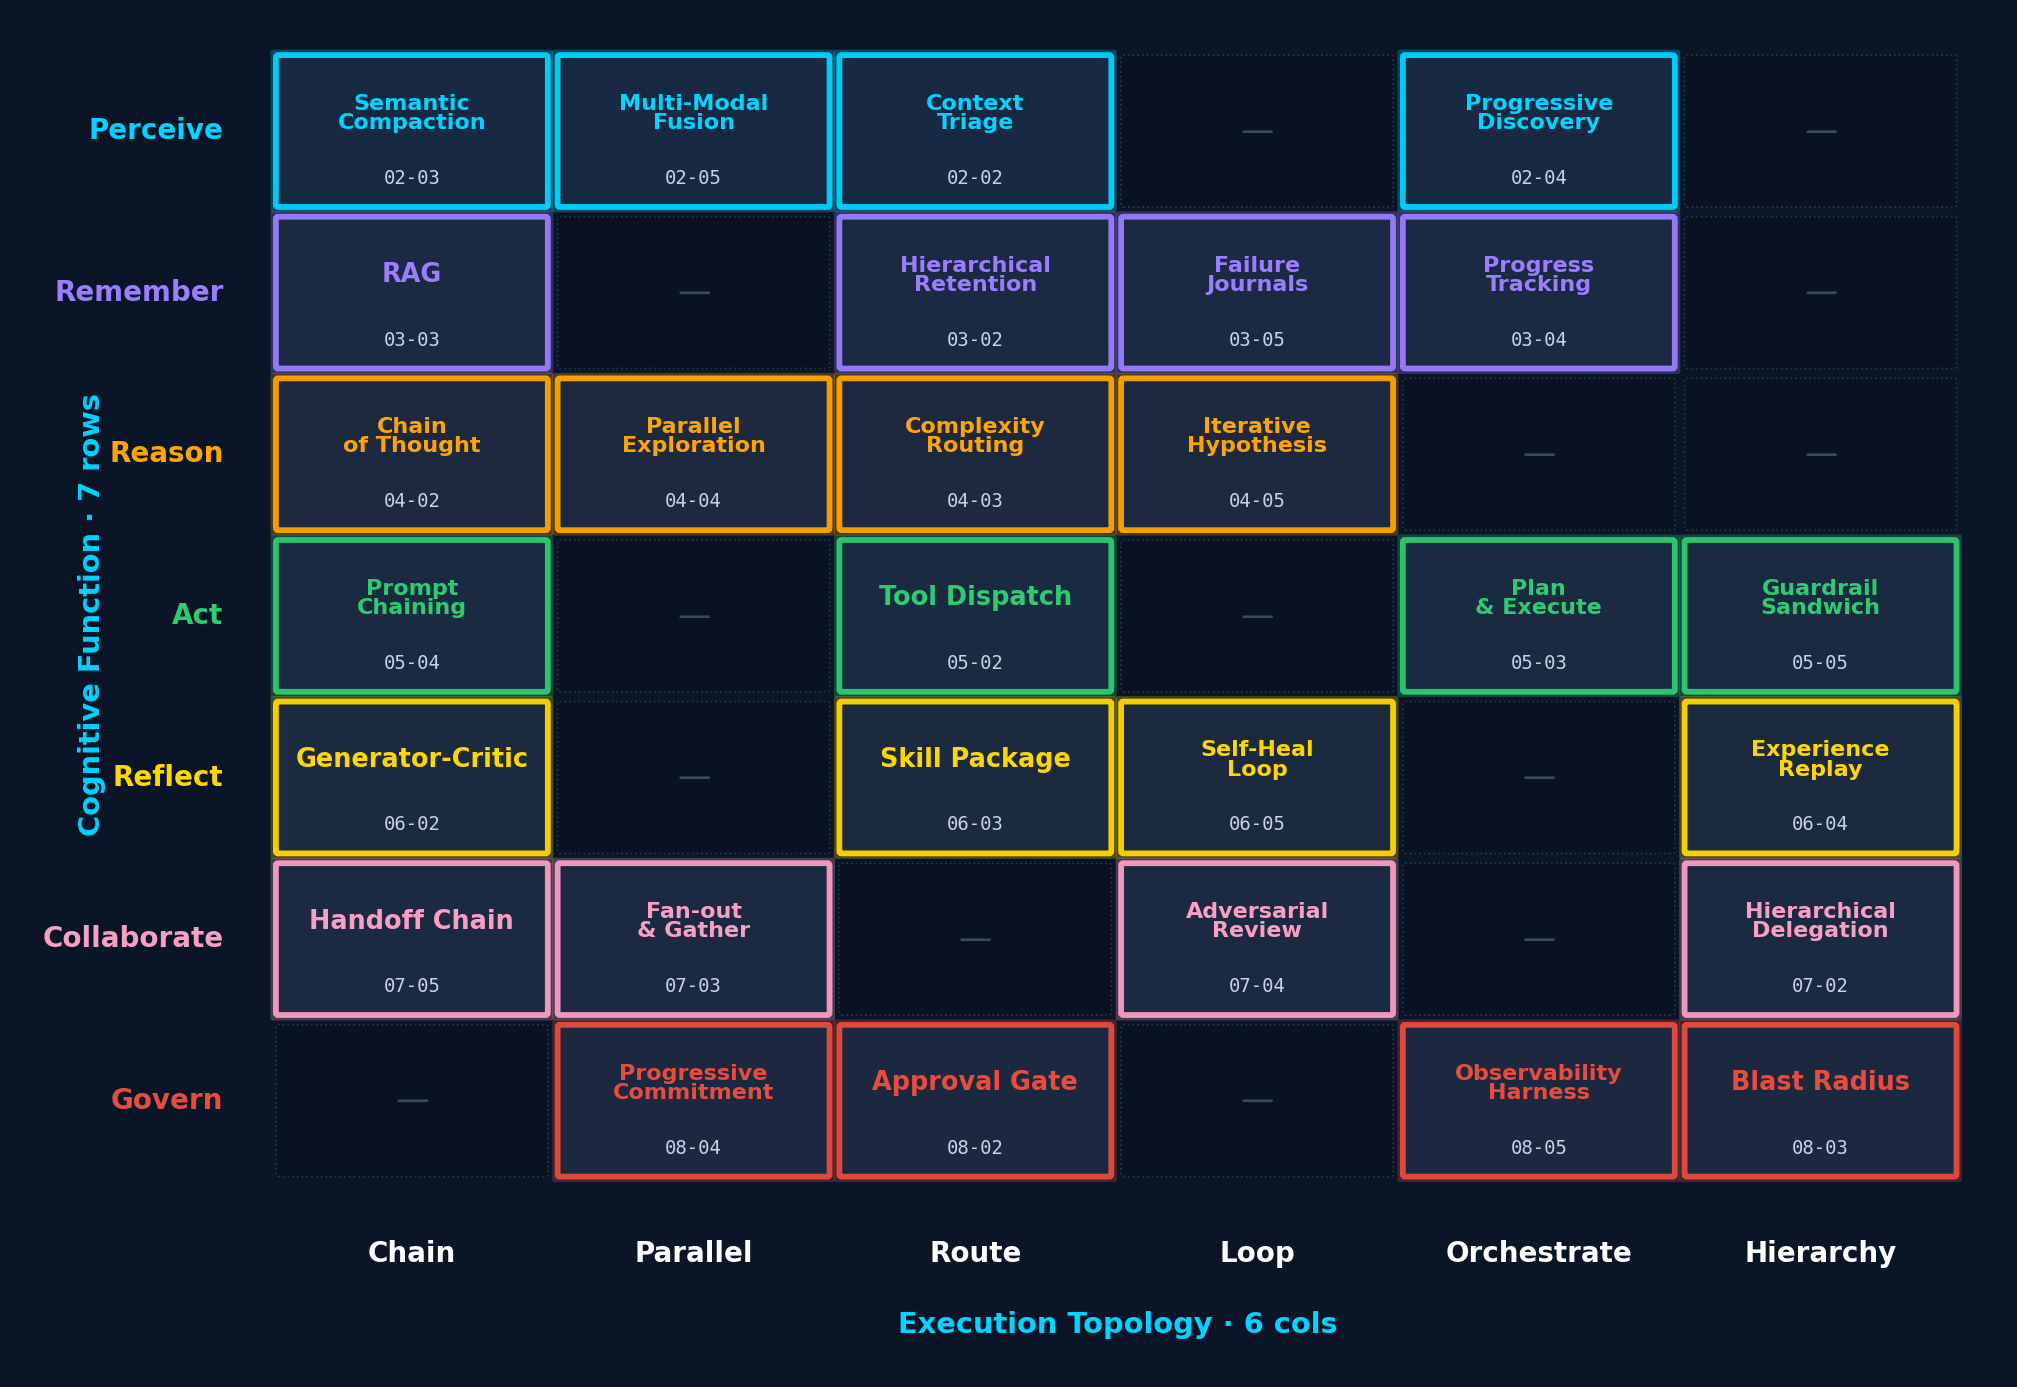
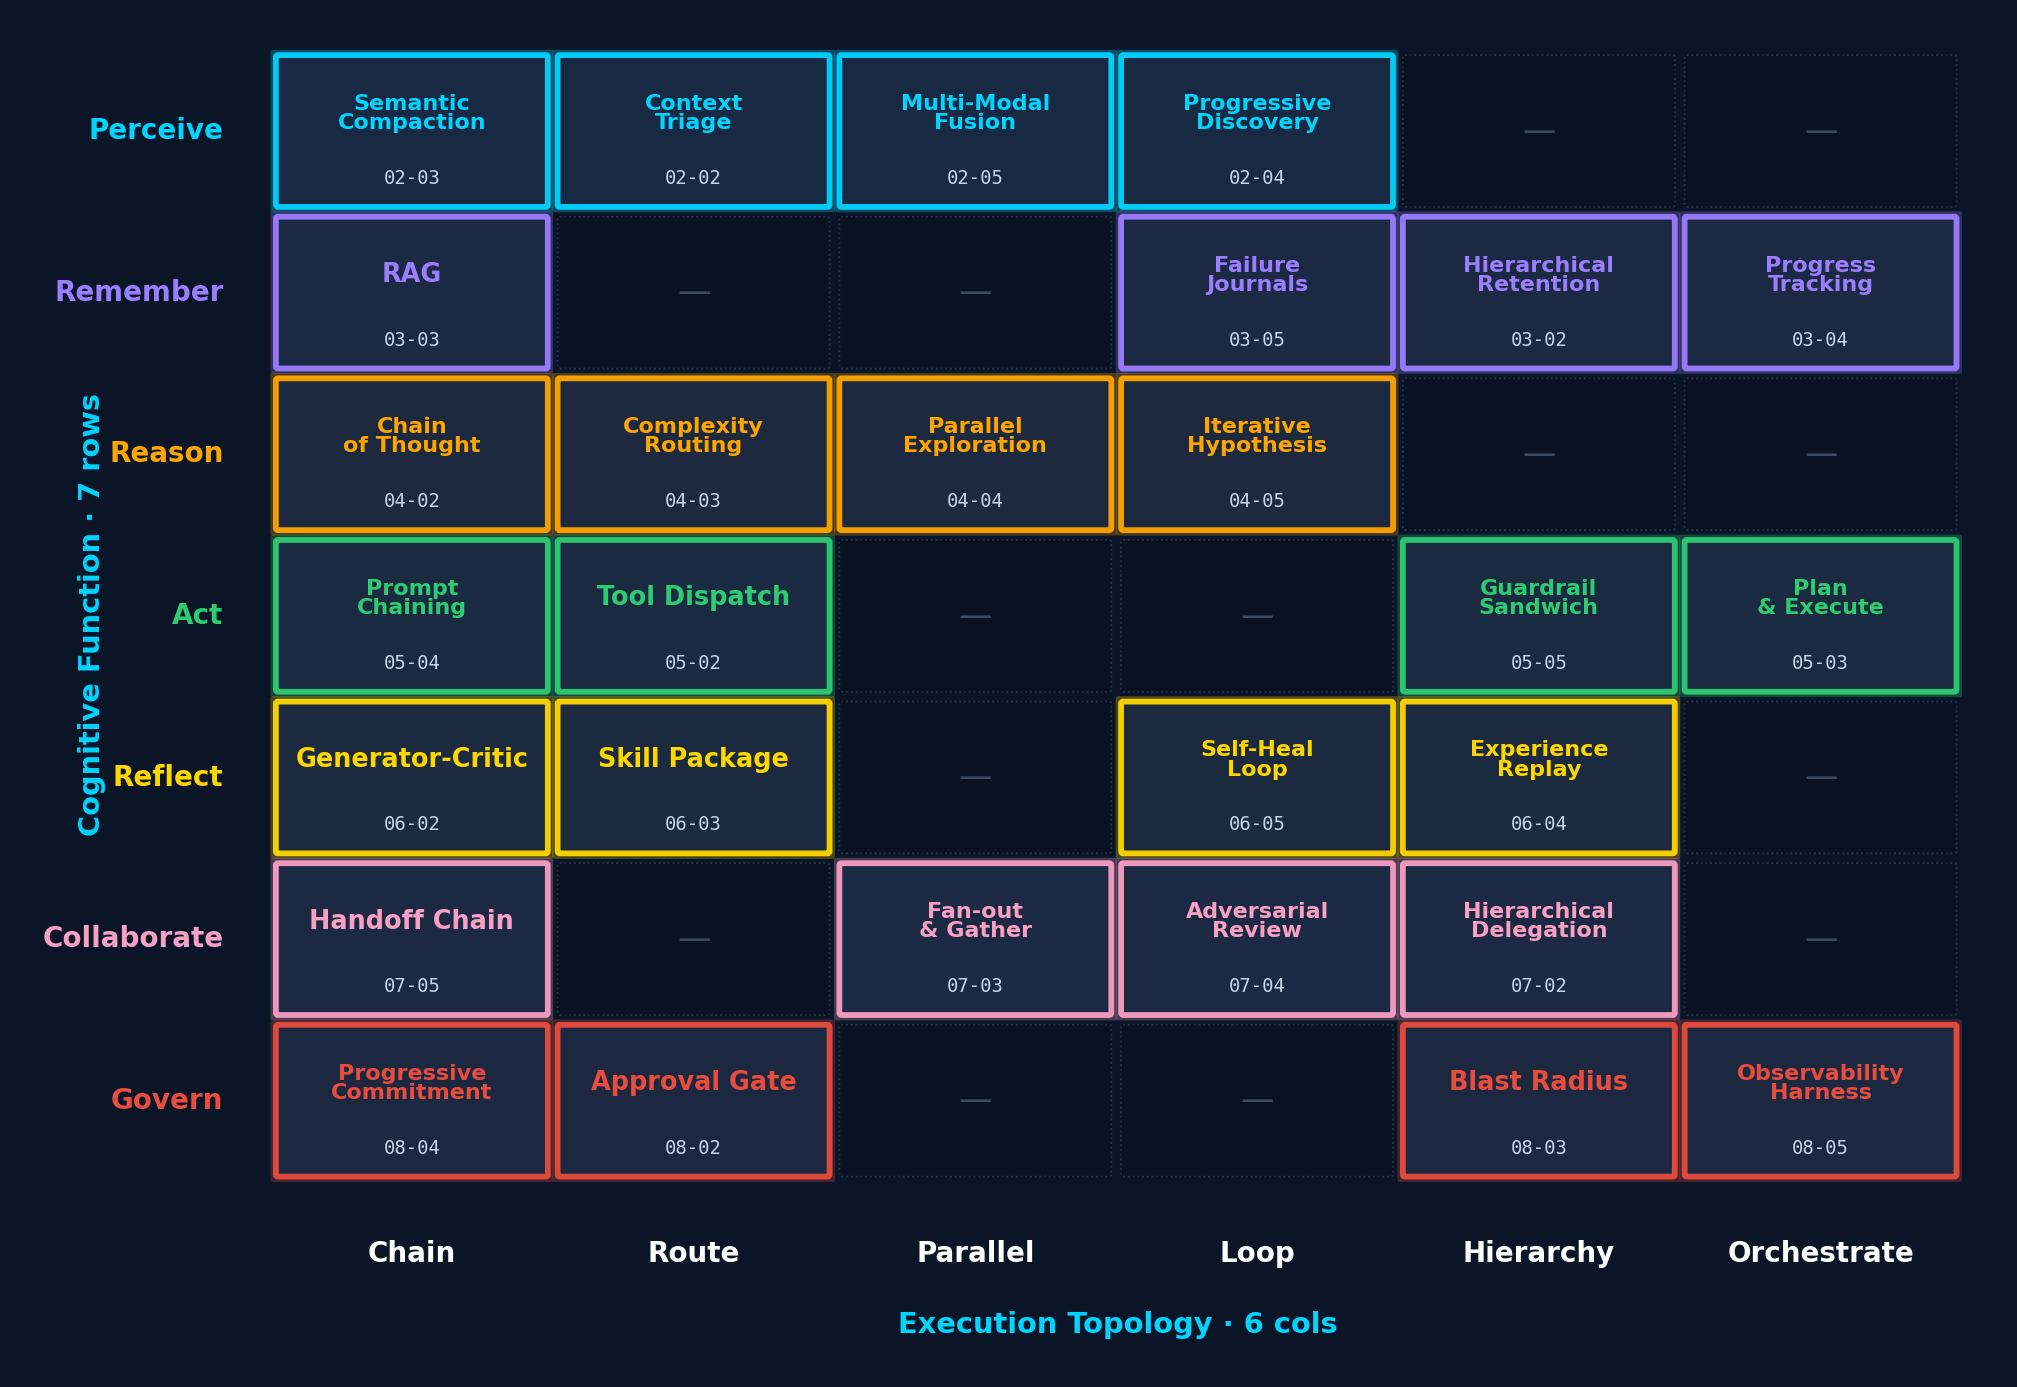
fix: matrix canonical + Guardrail Sandwich Chinese rename
- COLS reordered to canonical [Chain, Route, Parallel, Loop, Hierarchy, Orchestrate]
- All PATTERNS placements aligned with ZH render_matrix_28_orchestrate_right
- 守卫三明治 → 护栏三明治 (README.zh-CN.md + d-guardrail-sandwich/)

diff --git a/docs/render_matrix.py b/docs/render_matrix.py
@@ -25,7 +25,8 @@ MUTED = "#c7d4e8"
 CYAN = "#00d4ff"
 
 ROWS = ["Perceive", "Remember", "Reason", "Act", "Reflect", "Collaborate", "Govern"]
-COLS = ["Chain", "Parallel", "Route", "Loop", "Orchestrate", "Hierarchy"]
+# Canonical column order (matches ZH render_matrix_28_orchestrate_right): Orchestrate moved to rightmost.
+COLS = ["Chain", "Route", "Parallel", "Loop", "Hierarchy", "Orchestrate"]
 
 ROW_COLORS = {
     0: "#00d4ff",   # Perceive
@@ -38,42 +39,43 @@ ROW_COLORS = {
 }
 
 # (row, col, English name, lecture code)
+# Column order: 0 Chain, 1 Route, 2 Parallel, 3 Loop, 4 Hierarchy, 5 Orchestrate
 PATTERNS = [
     # Perceive (row 0)
     (0, 0, "Semantic Compaction",        "02-03"),
-    (0, 1, "Multi-Modal Fusion",         "02-05"),
-    (0, 2, "Context Triage",             "02-02"),
-    (0, 4, "Progressive Discovery",      "02-04"),
+    (0, 1, "Context Triage",             "02-02"),
+    (0, 2, "Multi-Modal Fusion",         "02-05"),
+    (0, 3, "Progressive Discovery",      "02-04"),
     # Remember (row 1)
     (1, 0, "RAG",                        "03-03"),
-    (1, 2, "Hierarchical Retention",     "03-02"),
     (1, 3, "Failure Journals",           "03-05"),
-    (1, 4, "Progress Tracking",          "03-04"),
+    (1, 4, "Hierarchical Retention",     "03-02"),
+    (1, 5, "Progress Tracking",          "03-04"),
     # Reason (row 2)
     (2, 0, "Chain of Thought",           "04-02"),
-    (2, 1, "Parallel Exploration",       "04-04"),
-    (2, 2, "Complexity Routing",         "04-03"),
+    (2, 1, "Complexity Routing",         "04-03"),
+    (2, 2, "Parallel Exploration",       "04-04"),
     (2, 3, "Iterative Hypothesis",       "04-05"),
     # Act (row 3)
     (3, 0, "Prompt Chaining",            "05-04"),
-    (3, 2, "Tool Dispatch",              "05-02"),
-    (3, 4, "Plan & Execute",             "05-03"),
-    (3, 5, "Guardrail Sandwich",         "05-05"),
+    (3, 1, "Tool Dispatch",              "05-02"),
+    (3, 4, "Guardrail Sandwich",         "05-05"),
+    (3, 5, "Plan & Execute",             "05-03"),
     # Reflect (row 4)
     (4, 0, "Generator-Critic",           "06-02"),
-    (4, 2, "Skill Package",              "06-03"),
+    (4, 1, "Skill Package",              "06-03"),
     (4, 3, "Self-Heal Loop",             "06-05"),
-    (4, 5, "Experience Replay",          "06-04"),
+    (4, 4, "Experience Replay",          "06-04"),
     # Collaborate (row 5)
     (5, 0, "Handoff Chain",              "07-05"),
-    (5, 1, "Fan-out & Gather",           "07-03"),
+    (5, 2, "Fan-out & Gather",           "07-03"),
     (5, 3, "Adversarial Review",         "07-04"),
-    (5, 5, "Hierarchical Delegation",    "07-02"),
+    (5, 4, "Hierarchical Delegation",    "07-02"),
     # Govern (row 6)
-    (6, 1, "Progressive Commitment",     "08-04"),
-    (6, 2, "Approval Gate",              "08-02"),
-    (6, 4, "Observability Harness",      "08-05"),
-    (6, 5, "Blast Radius",               "08-03"),
+    (6, 0, "Progressive Commitment",     "08-04"),
+    (6, 1, "Approval Gate",              "08-02"),
+    (6, 4, "Blast Radius",               "08-03"),
+    (6, 5, "Observability Harness",      "08-05"),
 ]
 
 
@@ -166,7 +168,7 @@ def render(out_path: Path, clean: bool = False, show_codes: bool = True) -> None
                 n_rows * (cell_h + gap) + 0.35,
                 "Cognitive function (Perceive / Remember / Reason / Act / "
                 "Reflect / Collaborate / Govern)  ×  Execution topology "
-                "(Chain / Parallel / Route / Loop / Orchestrate / Hierarchy)  ·  "
+                "(Chain / Route / Parallel / Loop / Hierarchy / Orchestrate)  ·  "
                 "14 cells blank (industry gap / future research)",
                 color=MUTED, fontsize=10, ha="center", va="bottom",
                 style="italic")

diff --git a/README.zh-CN.md b/README.zh-CN.md
@@ -70,7 +70,7 @@ Function × Execution Topology](https://arxiv.org/abs/2605.13850)**
 | **感知** | [语义压缩 ✅](./perception/b-semantic-compaction/) | [多模态融合 ✅](./perception/d-multimodal-fusion/) | [上下文分诊 ✅](./perception/a-context-triage/) | — | [渐进发现 ✅](./perception/c-progressive-discovery/) | — |
 | **记忆** | [RAG ✅](./memory/b-rag/) | — | [分层保留 ✅](./memory/a-hierarchical-retention/) | [失败日记 ✅](./memory/d-failure-journals/) | [进度追踪 ✅](./memory/c-progress-tracking/) | — |
 | **推理** | [思维链 ✅](./reasoning/a-chain-of-thought/) | [并行探索 ✅](./reasoning/c-parallel-exploration/) | [复杂度路由 ✅](./reasoning/b-complexity-routing/) | [迭代假设 ✅](./reasoning/d-iterative-hypothesis/) | — | — |
-| **行动** | [提示链 ✅](./action/c-prompt-chaining/) | — | [工具调度 ✅](./action/a-tool-dispatch/) | — | [规划执行 ✅](./action/b-plan-and-execute/) | [守卫三明治 ✅](./action/d-guardrail-sandwich/) |
+| **行动** | [提示链 ✅](./action/c-prompt-chaining/) | — | [工具调度 ✅](./action/a-tool-dispatch/) | — | [规划执行 ✅](./action/b-plan-and-execute/) | [护栏三明治 ✅](./action/d-guardrail-sandwich/) |
 | **反思** | [生成-批评 🟡](./reflection/a-generator-critic/) | — | [技能包 🟡](./reflection/b-skill-package/) | [自愈循环 🟡](./reflection/d-self-heal-loop/) | — | [经验回放 🟡](./reflection/c-experience-replay/) |
 | **协作** | [交接链 🟡](./collaboration/d-handoff-chain/) | [扇出聚合 🟡](./collaboration/b-fan-out-gather/) | — | [对抗评审 🟡](./collaboration/c-adversarial-review/) | — | [层级委派 🟡](./collaboration/a-hierarchical-delegation/) |
 | **治理** | — | [渐进承诺 🟡](./governance/c-progressive-commitment/) | [审批门 🟡](./governance/a-approval-gate/) | — | [可观测性 🟡](./governance/d-observability-harness/) | [爆炸半径 🟡](./governance/b-blast-radius/) |
@@ -106,7 +106,7 @@ Function × Execution Topology](https://arxiv.org/abs/2605.13850)**
 | 工具调度 | Claude Code `Tool.ts` 14 字段 schema、[Anthropic Programmatic Tool Calling](https://platform.claude.com/docs/en/agents-and-tools/tool-use/programmatic-tool-calling)、Codex CLI `execpolicy` crate、[arxiv:2602.14878 *MCP Tool Descriptions Are Smelly*](https://arxiv.org/html/2602.14878v1)、[OWASP Top 10 for Agentic Apps 2026 A2](https://genai.owasp.org/)、Manus 32 工具上限 |
 | 规划执行 | [Aider `architect_coder.py` 9 行核心](https://github.com/Aider-AI/aider/blob/main/aider/coders/architect_coder.py)、Claude Code ExitPlanMode(plan 写文件)、[LangGraph 1.0 BSP/Pregel](https://blog.langchain.com/building-langgraph/)、Manus `todo.md`、[Anthropic Adaptive Replanning](https://www.anthropic.com/research/multi-agent-research) |
 | 提示链 | [Aider `history.py` 49 行递归 chain](https://github.com/Aider-AI/aider/blob/main/aider/history.py)、Claude Code PRA loop + Skills + slash commands、[Anthropic *Building Effective Agents*](https://www.anthropic.com/research/building-effective-agents)、[Anthropic prompt best practices(XML 结构)](https://platform.claude.com/docs/en/build-with-claude/prompt-engineering/claude-prompting-best-practices)、Doug McIlroy Unix 哲学 |
-| 守卫三明治 | Claude Code Hooks Pipeline(12 lifecycle event; PreToolUse 可 block)、[OWASP Top 10 for Agentic Apps 2026 A1/A2/A3](https://genai.owasp.org/)、NVIDIA NeMo Guardrails(Colang 4-rail)、GuardrailsAI(RAIL spec)、Microsoft Guidance(grammar 级)、[arxiv:2509.23994 *Policy-as-Prompt Synthesis*](https://arxiv.org/abs/2509.23994) |
+| 护栏三明治 | Claude Code Hooks Pipeline(12 lifecycle event; PreToolUse 可 block)、[OWASP Top 10 for Agentic Apps 2026 A1/A2/A3](https://genai.owasp.org/)、NVIDIA NeMo Guardrails(Colang 4-rail)、GuardrailsAI(RAIL spec)、Microsoft Guidance(grammar 级)、[arxiv:2509.23994 *Policy-as-Prompt Synthesis*](https://arxiv.org/abs/2509.23994) |
 
 框架追踪的 8 个生产 harness：**Claude Code、Codex CLI、Aider、OpenCode、OpenClaw、Hermes Agent、DeepAgents、DeerFlow、OpenHands**。每个模式的 README 都从其中至少一个抽出真实生产形态，而不是 toy 代码。
 

diff --git a/action/d-guardrail-sandwich/README.zh-CN.md b/action/d-guardrail-sandwich/README.zh-CN.md
@@ -1,4 +1,4 @@
-# d · Guardrail Sandwich · 守卫三明治
+# d · Guardrail Sandwich · 护栏三明治
 
 > 专栏第 **05-05** 讲 · pattern · 行动 × 层级
 >